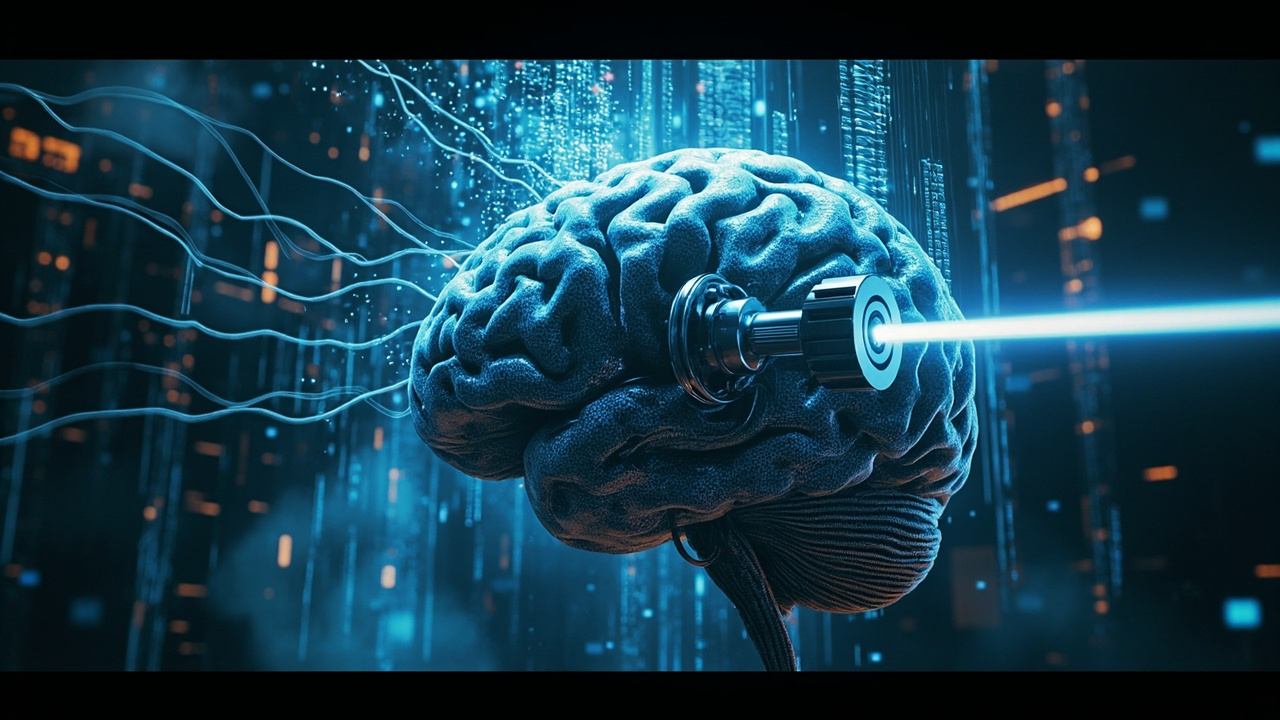
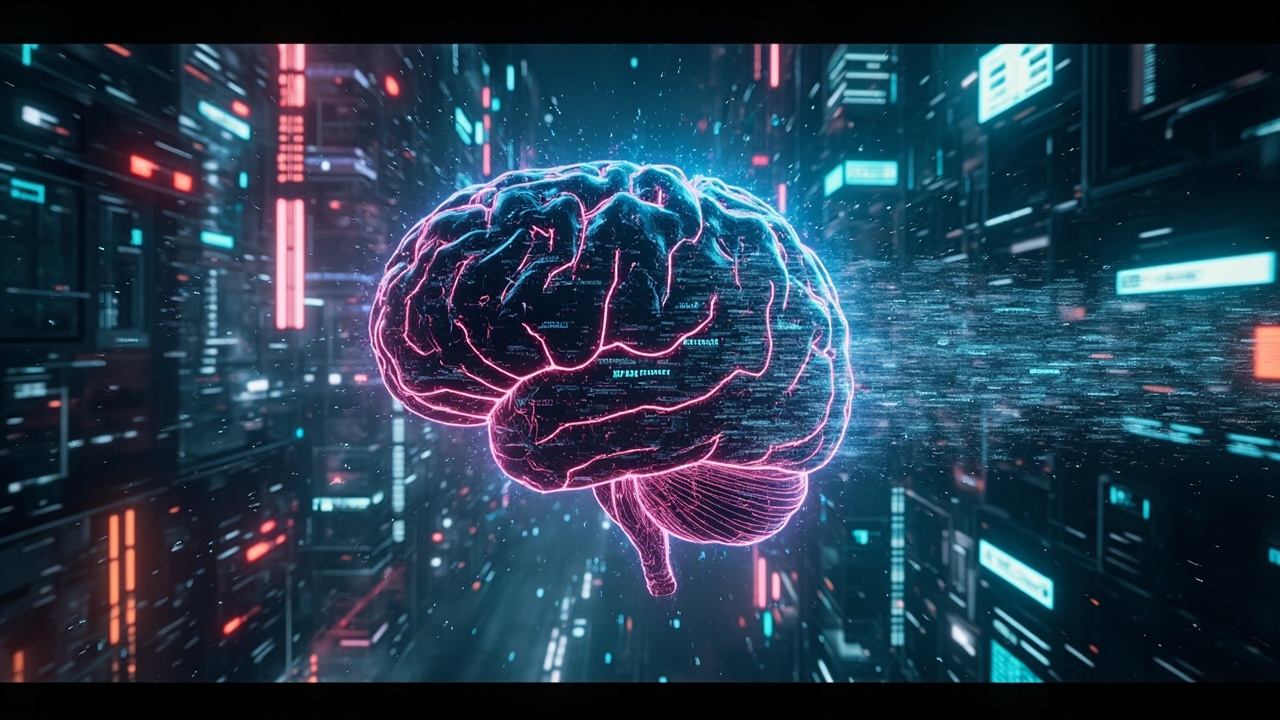
Daily image 2026-04-09: AI语言简洁化

diff --git a/content/cn/daily-image/2026-04-09.md b/content/cn/daily-image/2026-04-09.md
@@ -1,7 +1,7 @@
 ---
-title: "Claude防话痨插件"
+title: "AI语言简洁化"
 date: 2026-04-09
 format: png
-caption: "当话痨AI遇上精准过滤器，信息洪流终被驯服"
+caption: "数据洪流被精准压缩，AI意识从话痨中获解放"
 source: "B站 #31"
 ---
